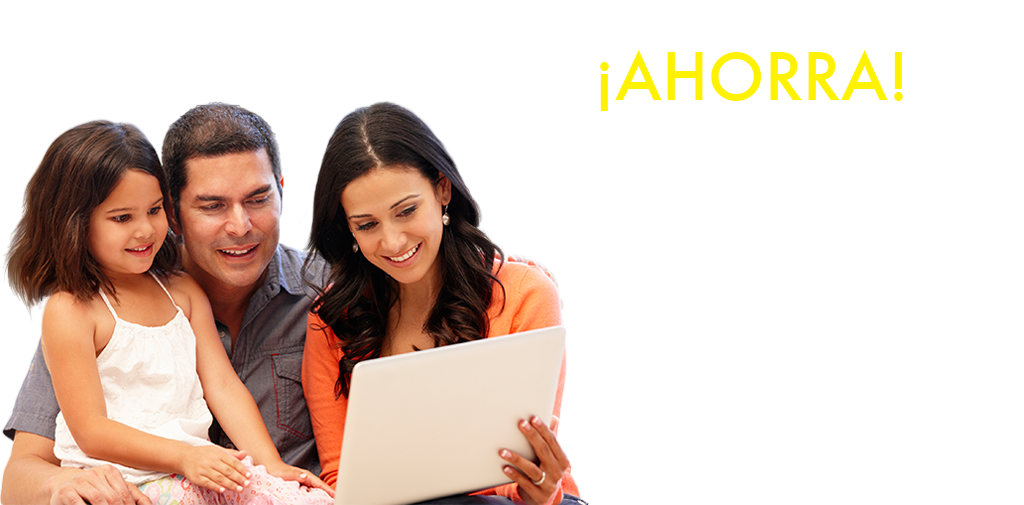
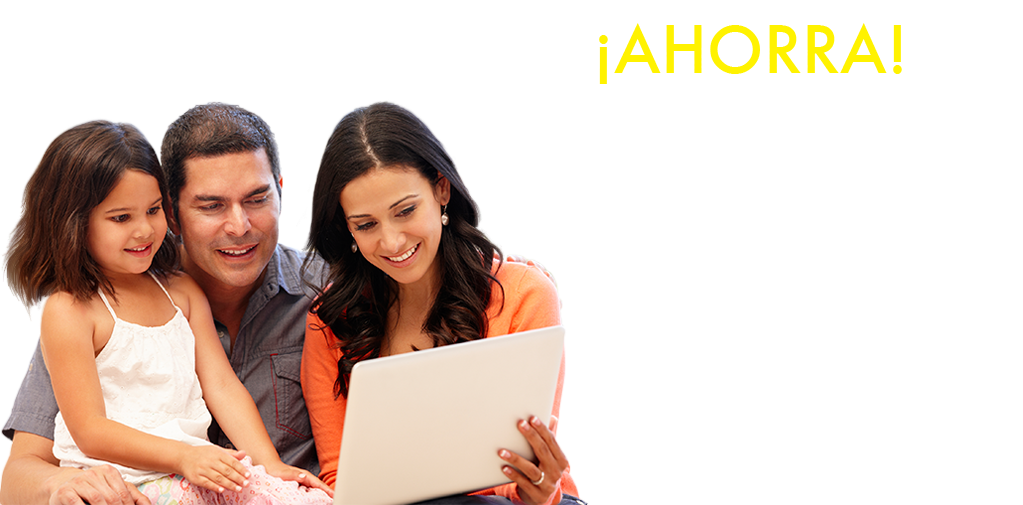
new popup

diff --git a/css/main.css b/css/main.css
@@ -1,18 +1,80 @@
 /*! normalize.css v3.0.2 | MIT License | git.io/normalize */html{font-family:sans-serif;-ms-text-size-adjust:100%;-webkit-text-size-adjust:100%}body{margin:0}article,aside,details,figcaption,figure,footer,header,hgroup,main,menu,nav,section,summary{display:block}audio,canvas,progress,video{display:inline-block;vertical-align:baseline}audio:not([controls]){display:none;height:0}[hidden],template{display:none}a{background-color:transparent}a:active,a:hover{outline:0}abbr[title]{border-bottom:1px dotted}b,strong{font-weight:700}dfn{font-style:italic}h1{font-size:2em;margin:.67em 0}mark{background:#ff0;color:#000}small{font-size:80%}sub,sup{font-size:75%;line-height:0;position:relative;vertical-align:baseline}sup{top:-.5em}sub{bottom:-.25em}img{border:0}svg:not(:root){overflow:hidden}figure{margin:1em 40px}hr{-moz-box-sizing:content-box;box-sizing:content-box;height:0}pre{overflow:auto}code,kbd,pre,samp{font-family:monospace,monospace;font-size:1em}button,input,optgroup,select,textarea{color:inherit;font:inherit;margin:0}button{overflow:visible}button,select{text-transform:none}button,html input[type=button],input[type=reset],input[type=submit]{-webkit-appearance:button;cursor:pointer}button[disabled],html input[disabled]{cursor:default}button::-moz-focus-inner,input::-moz-focus-inner{border:0;padding:0}input{line-height:normal}input[type=checkbox],input[type=radio]{box-sizing:border-box;padding:0}input[type=number]::-webkit-inner-spin-button,input[type=number]::-webkit-outer-spin-button{height:auto}input[type=search]{-webkit-appearance:textfield;-moz-box-sizing:content-box;-webkit-box-sizing:content-box;box-sizing:content-box}input[type=search]::-webkit-search-cancel-button,input[type=search]::-webkit-search-decoration{-webkit-appearance:none}fieldset{border:1px solid silver;margin:0 2px;padding:.35em .625em .75em}legend{border:0;padding:0}textarea{overflow:auto}optgroup{font-weight:700}table{border-collapse:collapse;border-spacing:0}td,th{padding:0}
 @charset 'UTF-8';.slick-loading .slick-list{background:url(./ajax-loader.gif) center center no-repeat #fff}@font-face{font-family:slick;font-weight:400;font-style:normal;src:url(vendor/slick/fonts/slick.eot);src:url(vendor/slick/fonts/slick.eot?#iefix) format('embedded-opentype'),url(vendor/slick/fonts/slick.woff) format('woff'),url(vendor/slick/fonts/slick.ttf) format('truetype'),url(vendor/slick/fonts/slick.svg#slick) format('svg')}.slick-next,.slick-prev{font-size:0;line-height:0;position:absolute;top:50%;display:block;width:20px;height:20px;margin-top:-10px;padding:0;cursor:pointer;color:transparent;border:none;outline:0;background:0 0}.slick-next:focus,.slick-next:hover,.slick-prev:focus,.slick-prev:hover{color:transparent;outline:0;background:0 0}.slick-next:focus:before,.slick-next:hover:before,.slick-prev:focus:before,.slick-prev:hover:before{opacity:1}.slick-next.slick-disabled:before,.slick-prev.slick-disabled:before{opacity:.25}.slick-next:before,.slick-prev:before{font-family:slick;font-size:20px;line-height:1;opacity:.75;color:#fff;-webkit-font-smoothing:antialiased;-moz-osx-font-smoothing:grayscale}.slick-prev{left:-25px}[dir=rtl] .slick-prev{right:-25px;left:auto}.slick-prev:before{content:'←'}[dir=rtl] .slick-prev:before{content:'→'}.slick-next{right:-25px}[dir=rtl] .slick-next{right:auto;left:-25px}.slick-next:before{content:'→'}[dir=rtl] .slick-next:before{content:'←'}.slick-slider{margin-bottom:30px}.slick-dots{position:absolute;bottom:-45px;display:block;width:100%;padding:0;list-style:none;text-align:center}.slick-dots li{position:relative;display:inline-block;width:20px;height:20px;margin:0 5px;padding:0;cursor:pointer}.slick-dots li button{font-size:0;line-height:0;display:block;width:20px;height:20px;padding:5px;cursor:pointer;color:transparent;border:0;outline:0;background:0 0}.slick-dots li button:focus,.slick-dots li button:hover{outline:0}.slick-dots li button:focus:before,.slick-dots li button:hover:before{opacity:1}.slick-dots li button:before{font-family:slick;font-size:6px;line-height:20px;position:absolute;top:0;left:0;width:20px;height:20px;content:'•';text-align:center;opacity:.25;color:#000;-webkit-font-smoothing:antialiased;-moz-osx-font-smoothing:grayscale}.slick-dots li.slick-active button:before{opacity:.75;color:#000}
 .slick-slider{position:relative;display:block;-moz-box-sizing:border-box;box-sizing:border-box;-webkit-user-select:none;-moz-user-select:none;-ms-user-select:none;user-select:none;-webkit-touch-callout:none;-khtml-user-select:none;-ms-touch-action:pan-y;touch-action:pan-y;-webkit-tap-highlight-color:transparent}.slick-list{position:relative;display:block;overflow:hidden;margin:0;padding:0}.slick-list:focus{outline:0}.slick-list.dragging{cursor:pointer;cursor:hand}.slick-slider .slick-list,.slick-slider .slick-track{-webkit-transform:translate3d(0,0,0);-moz-transform:translate3d(0,0,0);-ms-transform:translate3d(0,0,0);-o-transform:translate3d(0,0,0);transform:translate3d(0,0,0)}.slick-track{position:relative;top:0;left:0;display:block}.slick-track:after,.slick-track:before{display:table;content:''}.slick-track:after{clear:both}.slick-loading .slick-track{visibility:hidden}.slick-slide{display:none;float:left;height:100%;min-height:1px}[dir=rtl] .slick-slide{float:right}.slick-slide img{display:block}.slick-slide.slick-loading img{display:none}.slick-slide.dragging img{pointer-events:none}.slick-initialized .slick-slide{display:block}.slick-loading .slick-slide{visibility:hidden}.slick-vertical .slick-slide{display:block;height:auto;border:1px solid transparent}
+.slick-dots{
+  display:none !important;
+}
+.new-c{
+  max-width:1024px;
+  margin:0 auto;
+}
+.new{
+  background: none repeat scroll 0% 0% #FFEE00;
+  position: absolute;
+  padding: 10px;
+  border-radius: 15px;
+  bottom: 40px;
+  display:none;
+  z-index:1;
+}
+.new .triangle{
+  border-left:0;
+  border-right:40px solid transparent;
+  border-top:0 !important;
+  border-bottom: 20px solid #FFEE00;
+  margin-top:-25px; }
 
+.new p{
+  text-align:center;
+  color:#3C3C3C;
+  font-size:.9rem;
+  font-weight:bold;
+}
+.new input,.new button{
+  display:block;
+  margin-left:auto;
+  margin-right:auto;
+  margin-top:10px;
+  border-radius:.2rem;
+  border:0;
+  text-align:center;
+  font-size:.9rem;
+}
+.new input{
+  width:95%;
+  color:lightgray;
+}
+.new button{
+  width:70%;
+  background-color:#520A6C;
+  color : white;
 
+}
 body .m2 .title{display:inline-block;font-size :.9rem !important;border-bottom:5px solid white;}body .m2 .triangle{border-top:10px solid white;border-left:10px solid transparent;border-right:10px solid transparent;}body .m2 form{width:80%;margin:0 auto;margin-top:20px}body .m2 form p{font-size :.9rem !important;}body .m2 form input{width:100%;font-size:.7rem !important;}
 #top > p:first-child{font-size:1.3rem ;font-weight:bold ;margin-top:20px;}
 #top > p:first-child +p{font-size:.6rem ;padding-top:10px ;}
 #top > p:last-child{font-size: 0.4rem ;margin-bottom: 5px;margin-top: 5px;}
-.popup{height:200px;top:50%;box-shadow:4px 4px 5px rgba(0, 0, 0, 0.8);display:none;width:90%;margin:0 auto;background-color:#00aeef;position:fixed;z-index:10;color:#fff;left:0;right:0;margin-top:-100px;}.popup .close{position:absolute;top:-12px;right:-12px;cursor:pointer}.popup .column{display:inline-block;vertical-align:middle;width:50%;text-align:center;}.popup .column:last-child p{font-size:1.11rem;font-weight:bold;line-height:120%}.popup .column:last-child input{text-align:center;font-size:.611rem;line-height:120%;border-radius:.4rem;margin:0 auto;color:#000;padding:10px;border:0;display:block}.popup .column:last-child button{display:block;background-color:transparent;border:0;margin:0 auto;margin-top:10px}.title{color:#fff;}.title h1{font-size:2.22rem;padding-top:1.88rem;padding-bottom:1.33rem}.wrapper{max-width:1280px;margin:0 auto;position:relative}.triangle{width:0;height:0;border-left:20px solid transparent;border-right:20px solid transparent;border-top:20px solid #00aeef;margin:0 auto}.slick-dots{margin:0 auto;text-align:center;margin-top:30px;bottom:-60px;}.slick-dots li{margin-left:.6rem;margin-right:.6rem;}.slick-dots li:nth-child(1) button:before{background-color:#00aeef}.slick-dots li:nth-child(2) button:before{background-color:#662d91}.slick-dots li:nth-child(3) button:before{background-color:#00a651}.slick-dots li.slick-active button::before{color:transparent}.slick-dots li button::before{color:transparent;width:20px;height:20px;background-color:rgba(211,211,211,0.6);display:inline-block;margin-left:4px;margin-right:4px;border-radius:50%;cursor:pointer;}.slick-dots li button::before.active{background-color:#d3d3d3}*{font-family: 'Open Sans', sans-serif;box-sizing:border-box;margin:0;padding:0}img{display:block}a{text-decoration:none;color:inherit}h1,h2,h3,h4,h5,h6{line-height:120%;margin:0;text-align:left;padding-left:10px}section{margin-top:20px;position:relative}ul{margin:0;padding:0;}ul li{list-style-type:none}body{margin:0 auto;font-size:18px;color:rgb(0,145,61);}body header{position:relative;top:0;left:0;right:0;margin-right:auto;margin-left:auto;background-color:#fff;z-index:2;}body header .wrapper{text-align:center;}body header .wrapper picture{border-bottom:1px solid #6f6f6f;padding-bottom:10px;display:block;}body header .wrapper picture img{margin:0 auto}body header .wrapper .right{margin-top:10px;margin-bottom:10px;}body header .wrapper .right .content:first-child{display:none}body header .wrapper .right .content:last-child p:first-child{font-size:1.44rem;font-weight:bold;line-height:50%;}body header .wrapper .right .content:last-child p:first-child+p{font-size:2.2rem;font-weight:bold}body header .wrapper .right .content:last-child p:last-child{font-size:.6rem;color:#6f6f6f}body header .wrapper nav{margin-top:10px;clear:both;}body header .wrapper nav li{font-size:0;display:inline-block;width:50%;padding-top:10px;padding-bottom:10px;text-align:center;}body header .wrapper nav li:first-child{background-color:#00aeef}body header .wrapper nav li:last-child{background-color:#662d91}body header .wrapper nav li a{font-size:.88rem;color:#fff}body section[data-role="slider"]{margin-top:10px;margin-bottom:50px;}body section[data-role="slider"] .follow{display:none}body section[data-role="slider"] .row:last-child{margin-top:-30px}body section[data-role="slider"] #slider .more{position:absolute;margin-top:50px;bottom:5px;right:0;width:45%;}body section[data-role="slider"] #slider .more img{display:block;margin:0 auto;width:auto !important}body section[data-role="slider"] #slider .content .wrapper{max-width:1024px}body section[data-role="slider"] #slider .content img{width:100%}body section[data-role="slider"] #slider .content.c1{background-color:#00aeef}body section[data-role="slider"] #slider .content.c2{background-color:#662d91}body section[data-role="slider"] #slider .content.c3{background-color:#00a651}body section[data-role="dispositivos"]{margin-bottom:50px;}body section[data-role="dispositivos"] .title{background-color:#00aeef;}body section[data-role="dispositivos"] .title h1{font-size:1rem;padding:.722rem;width:90%;margin:0 auto}body section[data-role="dispositivos"] ul.wrapper{margin-top:20px;}body section[data-role="dispositivos"] ul.wrapper .dispositivo{display:inline-block;padding:10px;}body section[data-role="dispositivos"] ul.wrapper .dispositivo .content{background-color:#00aeef;text-align:center;padding:10px;width:90%;margin:0 auto;}body section[data-role="dispositivos"] ul.wrapper .dispositivo .content a img{margin-top:10px}body section[data-role="dispositivos"] ul.wrapper .dispositivo .content .title{font-size:2.11rem;line-height:120%;margin-top:20px;margin-bottom:10px}body section[data-role="dispositivos"] ul.wrapper .dispositivo .content .body{font-size:.77rem;height:80px;}body section[data-role="dispositivos"] ul.wrapper .dispositivo .content img{display:block;margin:0 auto;margin-top:10px}body section[data-role="dispositivos"] ul.wrapper .dispositivo .content p{color:#fff}body section[data-role="dispositivos"] #slick-dsp .slick-dots{bottom:-40px;}body section[data-role="dispositivos"] #slick-dsp .slick-dots li button::before{background-color:#00aeef}body section[data-role="planes"]{margin-bottom:70px;}body section[data-role="planes"] .title{background-color:#662d91;}body section[data-role="planes"] .title h1{font-size:1rem;padding:.722rem;width:90%;margin:0 auto}body section[data-role="planes"] ul.wrapper{margin-top:20px;}body section[data-role="planes"] ul.wrapper .plan{padding:10px;}body section[data-role="planes"] ul.wrapper .plan .content{background-color:#662d91;text-align:left;color:#fff;padding:10px;background-image:url("../imagenes/tramas_planes.png");background-position:0 0;width:80%;margin:0 auto;max-width:250px;}body section[data-role="planes"] ul.wrapper .plan .content p{background:transparent;color:#fff}body section[data-role="planes"] ul.wrapper .plan .content .column{display:block;}body section[data-role="planes"] ul.wrapper .plan .content .column picture img{margin:0 auto}body section[data-role="planes"] ul.wrapper .plan .content .column:last-child{position:relative;padding-left:10px;color:#fff;text-align:center;font-size:.66rem;}body section[data-role="planes"] ul.wrapper .plan .content .column:last-child img{display:block;margin:0 auto;margin-top:4px}body section[data-role="planes"] ul.wrapper .plan .content .column:last-child .title{font-size:1.11rem;margin-top:10px}body section[data-role="planes"] ul.wrapper .plan .content .column:last-child .limit{background-color:#fff;color:#662d91;margin-top:0;padding:0;}body section[data-role="planes"] ul.wrapper .plan .content .column:last-child .limit+p{margin-top:5px}body section[data-role="planes"] ul.wrapper .plan .content .column:last-child .limit2{font-size:.55rem;margin-top:0}body section[data-role="planes"] ul.wrapper .plan .content .column:last-child .condicion{font-size:.55rem;bottom:30px;line-height:120%;position:absolute;text-align:left}body section[data-role="planes"] #slick-pls .slick-dots{bottom:-40px;}body section[data-role="planes"] #slick-pls .slick-dots li button::before{background-color:#662d91}body footer{background-image:url("../imagenes/movil/piedepagina.jpg");background-position:center top;background-repeat:no-repeat;background-size:100% 100%;padding-top:25px;padding-bottom:25px;text-align:center;}body footer p{color:#fff;margin:0;padding:0;display:inline-block;font-size:.88rem;}body footer p:first-child{text-transform:uppercase}@media screen and (min-width:768px){
+.popup{height:200px;top:50%;box-shadow:4px 4px 5px rgba(0, 0, 0, 0.8);display:none;width:90%;margin:0 auto;background-color:#00aeef;position:fixed;z-index:10;color:#fff;left:0;right:0;margin-top:-100px;}.popup .close{position:absolute;top:-12px;right:-12px;cursor:pointer}.popup .column{display:inline-block;vertical-align:middle;width:50%;text-align:center;}.popup .column:last-child p{font-size:1.11rem;font-weight:bold;line-height:120%}.popup .column:last-child input{text-align:center;font-size:.611rem;line-height:120%;border-radius:.4rem;margin:0 auto;color:#000;padding:10px;border:0;display:block}.popup .column:last-child button{display:block;background-color:transparent;border:0;margin:0 auto;margin-top:10px}.title{color:#fff;}.title h1{font-size:2.22rem;padding-top:1.88rem;padding-bottom:1.33rem}.wrapper{max-width:1280px;margin:0 auto;position:relative}.triangle{width:0;height:0;border-left:20px solid transparent;border-right:20px solid transparent;border-top:20px solid #00aeef;margin:0 auto}.slick-dots{margin:0 auto;text-align:center;margin-top:30px;bottom:-60px;}.slick-dots li{margin-left:.6rem;margin-right:.6rem;}.slick-dots li:nth-child(1) button:before{background-color:#00aeef}.slick-dots li:nth-child(2) button:before{background-color:#662d91}.slick-dots li:nth-child(3) button:before{background-color:#00a651}.slick-dots li.slick-active button::before{color:transparent}.slick-dots li button::before{color:transparent;width:20px;height:20px;background-color:rgba(211,211,211,0.6);display:inline-block;margin-left:4px;margin-right:4px;border-radius:50%;cursor:pointer;}.slick-dots li button::before.active{background-color:#d3d3d3}*{position:relative;font-family: 'Open Sans', sans-serif;box-sizing:border-box;margin:0;padding:0}img{display:block}a{text-decoration:none;color:inherit}h1,h2,h3,h4,h5,h6{line-height:120%;margin:0;text-align:left;padding-left:10px}section{margin-top:20px;position:relative}ul{margin:0;padding:0;}ul li{list-style-type:none}body{margin:0 auto;font-size:18px;color:rgb(0,145,61);}body header{position:relative;top:0;left:0;right:0;margin-right:auto;margin-left:auto;background-color:#fff;z-index:2;}body header .wrapper{text-align:center;}body header .wrapper picture{border-bottom:1px solid #6f6f6f;padding-bottom:10px;display:block;}body header .wrapper picture img{margin:0 auto}body header .wrapper .right{margin-top:10px;margin-bottom:10px;}body header .wrapper .right .content:first-child{display:none}body header .wrapper .right .content:last-child p:first-child{font-size:1.44rem;font-weight:bold;line-height:50%;}body header .wrapper .right .content:last-child p:first-child+p{font-size:2.2rem;font-weight:bold}body header .wrapper .right .content:last-child p:last-child{font-size:.6rem;color:#6f6f6f}body header .wrapper nav{margin-top:10px;clear:both;}body header .wrapper nav li{font-size:0;display:inline-block;width:50%;padding-top:10px;padding-bottom:10px;text-align:center;}body header .wrapper nav li:first-child{background-color:#00aeef}body header .wrapper nav li:last-child{background-color:#662d91}body header .wrapper nav li a{font-size:.88rem;color:#fff}body section[data-role="slider"]{margin-top:10px;margin-bottom:50px;}body section[data-role="slider"] .follow{display:none}body section[data-role="slider"] .row:last-child{margin-top:-30px}body section[data-role="slider"] #slider .more{position:absolute;margin-top:50px;bottom:5px;right:0;width:45%;}body section[data-role="slider"] #slider .more img{display:block;margin:0 auto;width:auto !important}body section[data-role="slider"] #slider .content .wrapper{max-width:1024px}body section[data-role="slider"] #slider .content img{width:100%}body section[data-role="slider"] #slider .content.c1{background-color:#00aeef}body section[data-role="slider"] #slider .content.c2{background-color:#662d91}body section[data-role="slider"] #slider .content.c3{background-color:#00a651}body section[data-role="dispositivos"]{margin-bottom:50px;}body section[data-role="dispositivos"] .title{background-color:#00aeef;}body section[data-role="dispositivos"] .title h1{font-size:1rem;padding:.722rem;width:90%;margin:0 auto}body section[data-role="dispositivos"] ul.wrapper{margin-top:20px;}body section[data-role="dispositivos"] ul.wrapper .dispositivo{display:inline-block;padding:10px;}body section[data-role="dispositivos"] ul.wrapper .dispositivo .content{background-color:#00aeef;text-align:center;padding:10px;width:90%;margin:0 auto;}body section[data-role="dispositivos"] ul.wrapper .dispositivo .content a img{margin-top:10px}body section[data-role="dispositivos"] ul.wrapper .dispositivo .content .title{font-size:2.11rem;line-height:120%;margin-top:20px;margin-bottom:10px}body section[data-role="dispositivos"] ul.wrapper .dispositivo .content .body{font-size:.77rem;height:80px;}body section[data-role="dispositivos"] ul.wrapper .dispositivo .content img{display:block;margin:0 auto;margin-top:10px}body section[data-role="dispositivos"] ul.wrapper .dispositivo .content p{color:#fff}body section[data-role="dispositivos"] #slick-dsp .slick-dots{bottom:-40px;}body section[data-role="dispositivos"] #slick-dsp .slick-dots li button::before{background-color:#00aeef}body section[data-role="planes"]{margin-bottom:70px;}body section[data-role="planes"] .title{background-color:#662d91;}body section[data-role="planes"] .title h1{font-size:1rem;padding:.722rem;width:90%;margin:0 auto}body section[data-role="planes"] ul.wrapper{margin-top:20px;}body section[data-role="planes"] ul.wrapper .plan{padding:10px;}body section[data-role="planes"] ul.wrapper .plan .content{background-color:#662d91;text-align:left;color:#fff;padding:10px;background-image:url("../imagenes/tramas_planes.png");background-position:0 0;width:80%;margin:0 auto;max-width:250px;}body section[data-role="planes"] ul.wrapper .plan .content p{background:transparent;color:#fff}body section[data-role="planes"] ul.wrapper .plan .content .column{display:block;}body section[data-role="planes"] ul.wrapper .plan .content .column picture img{margin:0 auto}body section[data-role="planes"] ul.wrapper .plan .content .column:last-child{position:relative;padding-left:10px;color:#fff;text-align:center;font-size:.66rem;}body section[data-role="planes"] ul.wrapper .plan .content .column:last-child img{display:block;margin:0 auto;margin-top:4px}body section[data-role="planes"] ul.wrapper .plan .content .column:last-child .title{font-size:1.11rem;margin-top:10px}body section[data-role="planes"] ul.wrapper .plan .content .column:last-child .limit{background-color:#fff;color:#662d91;margin-top:0;padding:0;}body section[data-role="planes"] ul.wrapper .plan .content .column:last-child .limit+p{margin-top:5px}body section[data-role="planes"] ul.wrapper .plan .content .column:last-child .limit2{font-size:.55rem;margin-top:0}body section[data-role="planes"] ul.wrapper .plan .content .column:last-child .condicion{font-size:.55rem;bottom:30px;line-height:120%;position:absolute;text-align:left}body section[data-role="planes"] #slick-pls .slick-dots{bottom:-40px;}body section[data-role="planes"] #slick-pls .slick-dots li button::before{background-color:#662d91}body footer{background-image:url("../imagenes/movil/piedepagina.jpg");background-position:center top;background-repeat:no-repeat;background-size:100% 100%;padding-top:25px;padding-bottom:25px;text-align:center;}body footer p{color:#fff;margin:0;padding:0;display:inline-block;font-size:.88rem;}body footer p:first-child{text-transform:uppercase}@media screen and (min-width:768px){
+  .new{
+    right:10%;
+    display:block;
+  }
+
   #top > p:first-child{font-size:2.8rem ;font-weight:bold ;margin-top:20px;}
   #top > p:first-child +p{font-size:1.2rem ;padding-top:10px ;}
   #top > p:last-child{font-size: 0.9rem ;margin-bottom: 5px;margin-top: 5px;}
   #top form p{font-size :1rem;}
-  body .more-plans{padding-top: 0 !important;margin-top: -50px !important;}body .more-plans a{float:right}.popup{max-width:630px;height:354px;margin-top:-177px;}.popup .column:last-child p{font-size:1.88rem}.popup .column:last-child input{font-size:1rem}body header{position:fixed;}body header .wrapper{text-align:right;}body header .wrapper picture{border-bottom:0;float:left;margin-top:20px;padding-bottom:0;padding-top:6px;margin-left:20px}body header .wrapper .right{display:inline-block;}body header .wrapper .right .content{position:relative;}body header .wrapper .right .content:last-child{padding-right:20px;width:320px;border-left:1px solid #d3d3d3}body header .wrapper .right .content:last-child p:first-child{padding-top:20px}body header .wrapper .right .content:last-child p:last-child{width:100%;top:0;right:20px;}body section[data-role="slider"]{margin-top:160px;}body section[data-role="slider"] .follow{display:block;position:fixed;right:0;top:160px;z-index:10}body section[data-role="planes"] ul.wrapper .plan{width:50% !important;}body section[data-role="planes"] ul.wrapper .plan:nth-child(odd) .content{margin-right:0;margin-left:auto}body section[data-role="planes"] ul.wrapper .plan:nth-child(even) .content{margin-right:auto;margin-left:0}body section[data-role="planes"] ul.wrapper .plan:last-child{width:100% important;margin:0 auto;display:block;float:none;clear:both;}body section[data-role="planes"] ul.wrapper .plan:last-child .content{margin:0 auto}body section[data-role="planes"] #slick-pls{margin:0 auto;margin-top:20px}body .m2 .title{display:inline-block;font-size :2.66rem !important;border-bottom:5px solid white;}body .m2 .triangle{border-top:20px solid white;}body .m2 form{width:60%;margin:0 auto;margin-top:20px}body .m2 form p{font-size :1.55rem !important;}body .m2 form input{width:100%;font-size:1.16rem !important;}}@media screen and (min-width:1280px){.popup{max-width:820px;height:422px;margin-top:-211px;}.popup .column:last-child p{font-size:2.44rem}.popup .column:last-child input{margin-top:20px;font-size:1.66rem}body header .wrapper nav{display:none}body header .wrapper .right .content{display:inline-block;vertical-align:bottom;}body header .wrapper .right .content:first-child{display:inline-block;}body header .wrapper .right .content:first-child li{display:inline-block;padding-top:10px;padding-bottom:10px;padding-left:20px;padding-right:20px;text-align:center;}body header .wrapper .right .content:first-child li:first-child{background-color:#00aeef}body header .wrapper .right .content:first-child li:last-child{margin-left:5px;background-color:#662d91;margin-right:30px}body header .wrapper .right .content:first-child li a{color:#fff}body header .wrapper .right .content:last-child{border-left:1px solid #d3d3d3;}body header .wrapper .right .content:last-child p:first-child{font-size:1.33rem;}body header .wrapper .right .content:last-child p:first-child+p{font-size:2.4rem}body header .wrapper .right .content:last-child p:last-child{font-size:.66rem}body section[data-role="slider"]{margin-top:120px;}body section[data-role="slider"] #slider .more{bottom:30px;right:45px}body section[data-role="planes"] .title h1{margin:0 auto;font-size:2.22rem;text-align:left;max-width:940px}body section[data-role="planes"] ul.wrapper .plan .content{max-width:450px;}body section[data-role="planes"] ul.wrapper .plan .content .column{display:inline-block;vertical-align:top;}body section[data-role="planes"] ul.wrapper .plan .content .column:last-child{width:220px;}body section[data-role="planes"] ul.wrapper .plan .content .column:last-child p.title{margin-top:0}body section[data-role="dispositivos"] ul.wrapper .dispositivo .content{width:100%}body section[data-role="dispositivos"] .title h1{margin:0 auto;font-size:2.22rem;text-align:left;max-width:940px}body section[data-role="dispositivos"] #slick-dsp{max-width:940px}body header .wrapper picture{margin-left:40px}}
+  body .more-plans{padding-top: 0 !important;margin-top: -50px !important;}body .more-plans a{float:right}.popup{max-width:630px;height:354px;margin-top:-177px;}.popup .column:last-child p{font-size:1.88rem}.popup .column:last-child input{font-size:1rem}body header{position:fixed;}body header .wrapper{text-align:right;}body header .wrapper picture{border-bottom:0;float:left;margin-top:20px;padding-bottom:0;padding-top:6px;margin-left:20px}body header .wrapper .right{display:inline-block;}body header .wrapper .right .content{position:relative;}body header .wrapper .right .content:last-child{padding-right:20px;width:320px;border-left:1px solid #d3d3d3}body header .wrapper .right .content:last-child p:first-child{padding-top:20px}body header .wrapper .right .content:last-child p:last-child{width:100%;top:0;right:20px;}body section[data-role="slider"]{margin-top:160px;}body section[data-role="slider"] .follow{display:none;position:fixed;right:0;top:160px;z-index:10}body section[data-role="planes"] ul.wrapper .plan{width:50% !important;}body section[data-role="planes"] ul.wrapper .plan:nth-child(odd) .content{margin-right:0;margin-left:auto}body section[data-role="planes"] ul.wrapper .plan:nth-child(even) .content{margin-right:auto;margin-left:0}body section[data-role="planes"] ul.wrapper .plan:last-child{width:100% important;margin:0 auto;display:block;float:none;clear:both;}body section[data-role="planes"] ul.wrapper .plan:last-child .content{margin:0 auto}body section[data-role="planes"] #slick-pls{margin:0 auto;margin-top:20px}body .m2 .title{display:inline-block;font-size :2.66rem !important;border-bottom:5px solid white;}body .m2 .triangle{border-top:20px solid white;}body .m2 form{width:60%;margin:0 auto;margin-top:20px}body .m2 form p{font-size :1.55rem !important;}body .m2 form input{width:100%;font-size:1.16rem !important;}}@media screen and (min-width:1280px){
+    .new{
+      right:15%;
+    }
+    .new p{
+      font-size:1.2rem;
+    }
+    .new input,.new button{
+      font-size:1rem;
+    }
+    .slick-dots{display:block}body section[data-role="slider"] .follow{display:block}.popup{max-width:820px;height:422px;margin-top:-211px;}.popup .column:last-child p{font-size:2.44rem}.popup .column:last-child input{margin-top:20px;font-size:1.66rem}body header .wrapper nav{display:none}body header .wrapper .right .content{display:inline-block;vertical-align:bottom;}body header .wrapper .right .content:first-child{display:inline-block;}body header .wrapper .right .content:first-child li{display:inline-block;padding-top:10px;padding-bottom:10px;padding-left:20px;padding-right:20px;text-align:center;}body header .wrapper .right .content:first-child li:first-child{background-color:#00aeef}body header .wrapper .right .content:first-child li:last-child{margin-left:5px;background-color:#662d91;margin-right:30px}body header .wrapper .right .content:first-child li a{color:#fff}body header .wrapper .right .content:last-child{border-left:1px solid #d3d3d3;}body header .wrapper .right .content:last-child p:first-child{font-size:1.33rem;}body header .wrapper .right .content:last-child p:first-child+p{font-size:2.4rem}body header .wrapper .right .content:last-child p:last-child{font-size:.66rem}body section[data-role="slider"]{margin-top:120px;}body section[data-role="slider"] #slider .more{bottom:30px;right:45px}body section[data-role="planes"] .title h1{margin:0 auto;font-size:2.22rem;text-align:left;max-width:940px}body section[data-role="planes"] ul.wrapper .plan .content{max-width:450px;}body section[data-role="planes"] ul.wrapper .plan .content .column{display:inline-block;vertical-align:top;}body section[data-role="planes"] ul.wrapper .plan .content .column:last-child{width:220px;}body section[data-role="planes"] ul.wrapper .plan .content .column:last-child p.title{margin-top:0}body section[data-role="dispositivos"] ul.wrapper .dispositivo .content{width:100%}body section[data-role="dispositivos"] .title h1{margin:0 auto;font-size:2.22rem;text-align:left;max-width:940px}body section[data-role="dispositivos"] #slick-dsp{max-width:940px}body header .wrapper picture{margin-left:40px}}
 body section[data-role="slider"] #slider .content.c2,body section[data-role="slider"] #slider .content.c3{display :none}
 body header .wrapper .right .content:last-child p:first-child + p img{display:inline-block;vertical-align:middle;margin-right :10px}
 body .strike{color:#d7398c !important;text-decoration:line-through;margin-top:5px;margin-bottom:5px;text-align:center}

diff --git a/index.html b/index.html
@@ -15,7 +15,34 @@
     </div>
     <form action="http://c2s.dilootu.com/olo/WS_pro.php" method="POST"><p>¡TE LLAMAMOS GRATIS!</p><input type="text" class="t" placeholder="Escribe tu número" name="src"><input type="hidden" value="200" name="dst"><button type="submit"><picture><!--[if IE 9]><video style="display: none;"><![endif]--><source media="(min-width:1280px)" srcset="imagenes/web/boton_llamame_popup.png"></source><source media="(min-width:768px)" srcset="imagenes/tablet/boton_llamame_popup.png"></source><source media="(min-width:320px)" srcset="imagenes/movil/boton_llamame_popup.png"></source><!--[if IE 9]></video><![endif]--><img src="imagenes/web/boton_llamame_popup.png"></picture></button></form></div></div>
   <div class="popup m2"><div class="close"><img src="imagenes/movil/x.png"></div><div class="column"><picture><!--[if IE 9]><video style="display: none;"><![endif]--><source media="(min-width:1280px)" srcset="imagenes/web/imagen_popup1.png"></source><source media="(min-width:768px)" srcset="imagenes/tablet/imagen_popup1.png"></source><source media="(min-width:320px)" srcset="imagenes/movil/imagen_popup1.png"></source><!--[if IE 9]></video><![endif]--><img src="imagenes/web/imagen_popup1.png"></picture></div><div class="column"><p class="title">!PÍDELO AQUIÍ¡</p><div class="triangle"></div> <form action="http://c2s.dilootu.com/olo/WS_pro.php" method="POST"><p>¡TE LLAMAMOS GRATIS!</p><input type="text" class="t" placeholder="Escribe tu número" name="src"><input type="hidden" value="200" name="dst"><button type="submit"><picture><!--[if IE 9]><video style="display: none;"><![endif]--><source media="(min-width:1280px)" srcset="imagenes/web/boton_llamame_popup.png"></source><source media="(min-width:768px)" srcset="imagenes/tablet/boton_llamame_popup.png"></source><source media="(min-width:320px)" srcset="imagenes/movil/boton_llamame_popup.png"></source><!--[if IE 9]></video><![endif]--><img src="imagenes/web/boton_llamame_popup.png"></picture></button></form></div></div>
-  <div class="popup m1"><div class="close"><img src="imagenes/movil/x.png"></div><div class="column"><picture><!--[if IE 9]><video style="display: none;"><![endif]--><source srcset="imagenes/web/imagen_popup1.png" media="(min-width:1280px)"><source srcset="imagenes/tablet/imagen_popup1.png" media="(min-width:768px)"><source srcset="imagenes/movil/imagen_popup1.png" media="(min-width:320px)"><!--[if IE 9]></video><![endif]--><img src="imagenes/movil/imagen_popup1.png"></picture></div><div class="column"><form method="POST" action="http://c2s.dilootu.com/olo/WS_pro.php"><p>¡TE LLAMAMOS GRATIS!</p><input type="text" name="src" placeholder="Escribe tu número" class="t"><input type="hidden" name="dst" value="200"><button type="submit"><picture><!--[if IE 9]><video style="display: none;"><![endif]--><source srcset="imagenes/web/boton_llamame_popup.png" media="(min-width:1280px)"><source srcset="imagenes/tablet/boton_llamame_popup.png" media="(min-width:768px)"><source srcset="imagenes/movil/boton_llamame_popup.png" media="(min-width:320px)"><!--[if IE 9]></video><![endif]--><img src="imagenes/movil/boton_llamame_popup.png"></picture></button></form></div></div><header><div class="wrapper"><a href="#slider" class="st"><picture><!--[if IE 9]><video style="display: none;"><![endif]--><!--source(srcset="imagenes/web/logo.png",media="(min-width:1280px)")--><!--source(srcset="imagenes/movil/logo.png",media="(min-width:320px)")--><!--[if IE 9]></video><![endif]--><img src="imagenes/web/logo.png" alt="Olo logo"></a></picture><div class="right"><div class="content"><ul><li><a href="#dsp" class="st">Dispositivos</a></li><li><a href="#pl" class="st">Planes</a></li></ul></div><div class="content"><p>Llámanos al:</p><p><img src="imagenes/movil/telephone.png">(01)640-9697</p><p>Si eres cliente llámanos al: (01) 706 8000</p></div></div><nav><div class="content"><ul><li><a href="#dsp" class="st">Dispositivos</a></li><li><a href="#pl" class="st">Planes</a></li></ul></div></nav></div></header><section data-role="slider"><div class="follow more"><a href="#"><picture><!--[if IE 9]><video style="display: none;"><![endif]--><source srcset="imagenes/web/te_llamamos_gratis.png" media="(min-width:1280px)"><source srcset="imagenes/tablet/tellamamos.png" media="(min-width:768px)"><!--[if IE 9]></video><![endif]--><img src="imagenes/tablet/tellamamos.png"></picture></a></div><div class="row"><div id="slider"><div data-color="blue" class="content c1"><div class="wrapper"><a href="#" class="more"><picture><!--[if IE 9]><video style="display: none;"><![endif]--><source srcset="imagenes/web/boton_mas_informacion.png" media="(min-width:1280px)"><source srcset="imagenes/tablet/boton_mas_informacion.png" media="(min-width:768px)"><source srcset="imagenes/movil/boton_mas_informacion.png" media="(min-width:320px)"><!--[if IE 9]></video><![endif]--><img src="imagenes/movil/boton_mas_informacion.png"></picture></a><picture><!--[if IE 9]><video style="display: none;"><![endif]--><source srcset="imagenes/web/poster1.png" media="(min-width:1280px)"><source srcset="imagenes/tablet/poster1.png" media="(min-width:768px)"><source srcset="imagenes/movil/poster1.png" media="(min-width:320px)"><!--[if IE 9]></video><![endif]--><img src="imagenes/movil/poster1.png" alt=""></picture></div></div><div data-color="purple" class="content c2"><div class="wrapper"><a href="#" class="more"><picture><!--[if IE 9]><video style="display: none;"><![endif]--><source srcset="imagenes/web/boton_mas_informacion.png" media="(min-width:1280px)"><source srcset="imagenes/tablet/boton_mas_informacion.png" media="(min-width:768px)"><source srcset="imagenes/movil/boton_mas_informacion.png" media="(min-width:320px)"><!--[if IE 9]></video><![endif]--><img src="imagenes/movil/boton_mas_informacion.png"></picture></a><picture><!--[if IE 9]><video style="display: none;"><![endif]--><source srcset="imagenes/web/poster2.png" media="(min-width:1280px)"><source srcset="imagenes/tablet/poster2.png" media="(min-width:768px)"><source srcset="imagenes/movil/poster2.png" media="(min-width:320px)"><!--[if IE 9]></video><![endif]--><img src="imagenes/movil/poster2.png" alt=""></picture></div></div><div data-color="green" class="content c3"><div class="wrapper"><a href="#" class="more"><picture><!--[if IE 9]><video style="display: none;"><![endif]--><source srcset="imagenes/web/boton_mas_informacion.png" media="(min-width:1280px)"><source srcset="imagenes/tablet/boton_mas_informacion.png" media="(min-width:768px)"><source srcset="imagenes/movil/boton_mas_informacion.png" media="(min-width:320px)"><!--[if IE 9]></video><![endif]--><img src="imagenes/movil/boton_mas_informacion.png"></picture></a><picture><!--[if IE 9]><video style="display: none;"><![endif]--><source srcset="imagenes/web/poster3.png" media="(min-width:1280px)"><source srcset="imagenes/tablet/poster3.png" media="(min-width:768px)"><source srcset="imagenes/movil/poster3.png" media="(min-width:320px)"><!--[if IE 9]></video><![endif]--><img src="imagenes/movil/poster3.png" alt=""></picture></div></div></div></div><div class="row"><div class="triangle"></div></div></section><section data-role="dispositivos"><div class="title"><div class="wrapper"><h1 id="dsp">NUESTROS DISPOSITIVOS</h1></div></div><ul id="slick-dsp" class="wrapper"><li class="dispositivo"><div class="content"><picture><!--[if IE 9]><video style="display: none;"><![endif]--><!--source(srcset="imagenes/web/olo_movil.png",media="(min-width:1280px)")--><!--source(srcset="imagenes/tablet/olo_movil.png",media="(min-width:768px)")--><!--source(srcset="imagenes/movil/olo_movil.png",media="(min-width:320px)")--><!--[if IE 9]></video><![endif]-->
+  <div class="popup m1"><div class="close"><img src="imagenes/movil/x.png"></div><div class="column"><picture><!--[if IE 9]><video style="display: none;"><![endif]--><source srcset="imagenes/web/imagen_popup1.png" media="(min-width:1280px)"><source srcset="imagenes/tablet/imagen_popup1.png" media="(min-width:768px)"><source srcset="imagenes/movil/imagen_popup1.png" media="(min-width:320px)"><!--[if IE 9]></video><![endif]--><img src="imagenes/movil/imagen_popup1.png"></picture></div><div class="column"><form method="POST" action="http://c2s.dilootu.com/olo/WS_pro.php"><p>¡TE LLAMAMOS GRATIS!</p><input type="text" name="src" placeholder="Escribe tu número" class="t"><input type="hidden" name="dst" value="200"><button type="submit"><picture><!--[if IE 9]><video style="display: none;"><![endif]--><source srcset="imagenes/web/boton_llamame_popup.png" media="(min-width:1280px)"><source srcset="imagenes/tablet/boton_llamame_popup.png" media="(min-width:768px)"><source srcset="imagenes/movil/boton_llamame_popup.png" media="(min-width:320px)"><!--[if IE 9]></video><![endif]--><img src="imagenes/movil/boton_llamame_popup.png"></picture></button></form></div></div><header><div class="wrapper"><a href="#slider" class="st"><picture><!--[if IE 9]><video style="display: none;"><![endif]--><!--source(srcset="imagenes/web/logo.png",media="(min-width:1280px)")--><!--source(srcset="imagenes/movil/logo.png",media="(min-width:320px)")--><!--[if IE 9]></video><![endif]--><img src="imagenes/web/logo.png" alt="Olo logo"></a></picture><div class="right"><div class="content"><ul><li><a href="#dsp" class="st">Dispositivos</a></li><li><a href="#pl" class="st">Planes</a></li></ul></div><div class="content"><p>Llámanos al:</p><p><img src="imagenes/movil/telephone.png">(01)640-9697</p><p>Si eres cliente llámanos al: (01) 706 8000</p></div></div><nav><div class="content"><ul><li><a href="#dsp" class="st">Dispositivos</a></li><li><a href="#pl" class="st">Planes</a></li></ul></div></nav></div></header><section data-role="slider"><div class="follow more"><a href="#"><picture><!--[if IE 9]><video style="display: none;"><![endif]--><source srcset="imagenes/web/te_llamamos_gratis.png" media="(min-width:1281px)"><!--[if IE 9]></video><![endif]--><img src="imagenes/web/te_llamamos_gratis.png"></picture></a></div><div class="row">
+
+
+
+
+    <div id="slider"><div data-color="blue" class="content c1"><div class="wrapper">
+
+        <picture><!--[if IE 9]><video style="display: none;"><![endif]--><source srcset="imagenes/web/poster1.png" media="(min-width:1280px)"><source srcset="imagenes/tablet/poster1.png" media="(min-width:768px)"><source srcset="imagenes/movil/poster1.png" media="(min-width:320px)"><!--[if IE 9]></video><![endif]--><img src="imagenes/movil/poster1.png" alt=""></picture></div></div><div data-color="purple" class="content c2"><div class="wrapper">
+          <picture><!--[if IE 9]><video style="display: none;"><![endif]--><source srcset="imagenes/web/poster2.png" media="(min-width:1280px)"><source srcset="imagenes/tablet/poster2.png" media="(min-width:768px)"><source srcset="imagenes/movil/poster2.png" media="(min-width:320px)"><!--[if IE 9]></video><![endif]--><img src="imagenes/movil/poster2.png" alt=""></picture></div></div><div data-color="green" class="content c3"><div class="wrapper">
+            <picture><!--[if IE 9]><video style="display: none;"><![endif]--><source srcset="imagenes/web/poster3.png" media="(min-width:1280px)"><source srcset="imagenes/tablet/poster3.png" media="(min-width:768px)"><source srcset="imagenes/movil/poster3.png" media="(min-width:320px)"><!--[if IE 9]></video><![endif]--><img src="imagenes/movil/poster3.png" alt=""></picture></div></div></div></div>
+      <div class="new-c">
+        <div class="new">
+          <div class="triangle"></div>
+          <form id="c2c" action="http://c2s.dilootu.com/olo/WS_pro.php" method="post">
+            <p>
+              ¡TE LLAMAMOS GRATIS!
+            </p>
+            <input type="text" name="src" value="" placeholder="Escribe tu número">
+            <input type="hidden" value="200" name="dst">
+            <button name="button" type="submit">LLAMAME</button>
+          </form>
+        </div>
+      </div>
+  <div class="row">
+      <div class="triangle"></div>
+  </div>
+
+  </section><section data-role="dispositivos"><div class="title"><div class="wrapper"><h1 id="dsp">NUESTROS DISPOSITIVOS</h1></div></div><ul id="slick-dsp" class="wrapper"><li class="dispositivo"><div class="content"><picture><!--[if IE 9]><video style="display: none;"><![endif]--><!--source(srcset="imagenes/web/olo_movil.png",media="(min-width:1280px)")--><!--source(srcset="imagenes/tablet/olo_movil.png",media="(min-width:768px)")--><!--source(srcset="imagenes/movil/olo_movil.png",media="(min-width:320px)")--><!--[if IE 9]></video><![endif]-->
     <img src="imagenes/web/olo_movil.png"></picture><p class="title">OLO MÓVIL</p><p class="body">Mantente conectado de forma inalámbrica estando en movimiento.
 Duración de hasta  de 6 horas diarias. Conexión hasta de 5 dispositivos.</p><img src="imagenes/movil/precio_movil.png"><p class="strike">Precio regular S/. 269</p><a href="#" class="more"><picture><!--[if IE 9]><video style="display: none;"><![endif]--><!--source(srcset="imagenes/web/boton_quiero_este_olo",media="(min-width:1280px)")--><!--source(srcset="imagenes/tablet/boton_quiero_este_olo",media="(min-width:768px)")--><!--source(srcset="imagenes/movil/boton_quiero_este_olo",media="(min-width:320px)")--><!--[if IE 9]></video><![endif]-->
   <img src="imagenes/web/boton_quiero_este_olo.png"></picture></a></div></li><li class="dispositivo"><div class="content"><picture><!--[if IE 9]><video style="display: none;"><![endif]--><!--source(srcset="imagenes/web/olo_clasico.png",media="(min-width:1280px)")--><!--source(srcset="imagenes/tablet/olo_clasico.png",media="(min-width:768px)")--><!--source(srcset="imagenes/movil/olo_clasico.png",media="(min-width:320px)")--><!--[if IE 9]></video><![endif]--><img src="imagenes/web/olo_clasico.png"></picture><p class="title">OLO CLÁSICO</p><p class="body">Ideal para la casa. Conexión de hasta 8 equipos. Diseño moderno y liviano.
